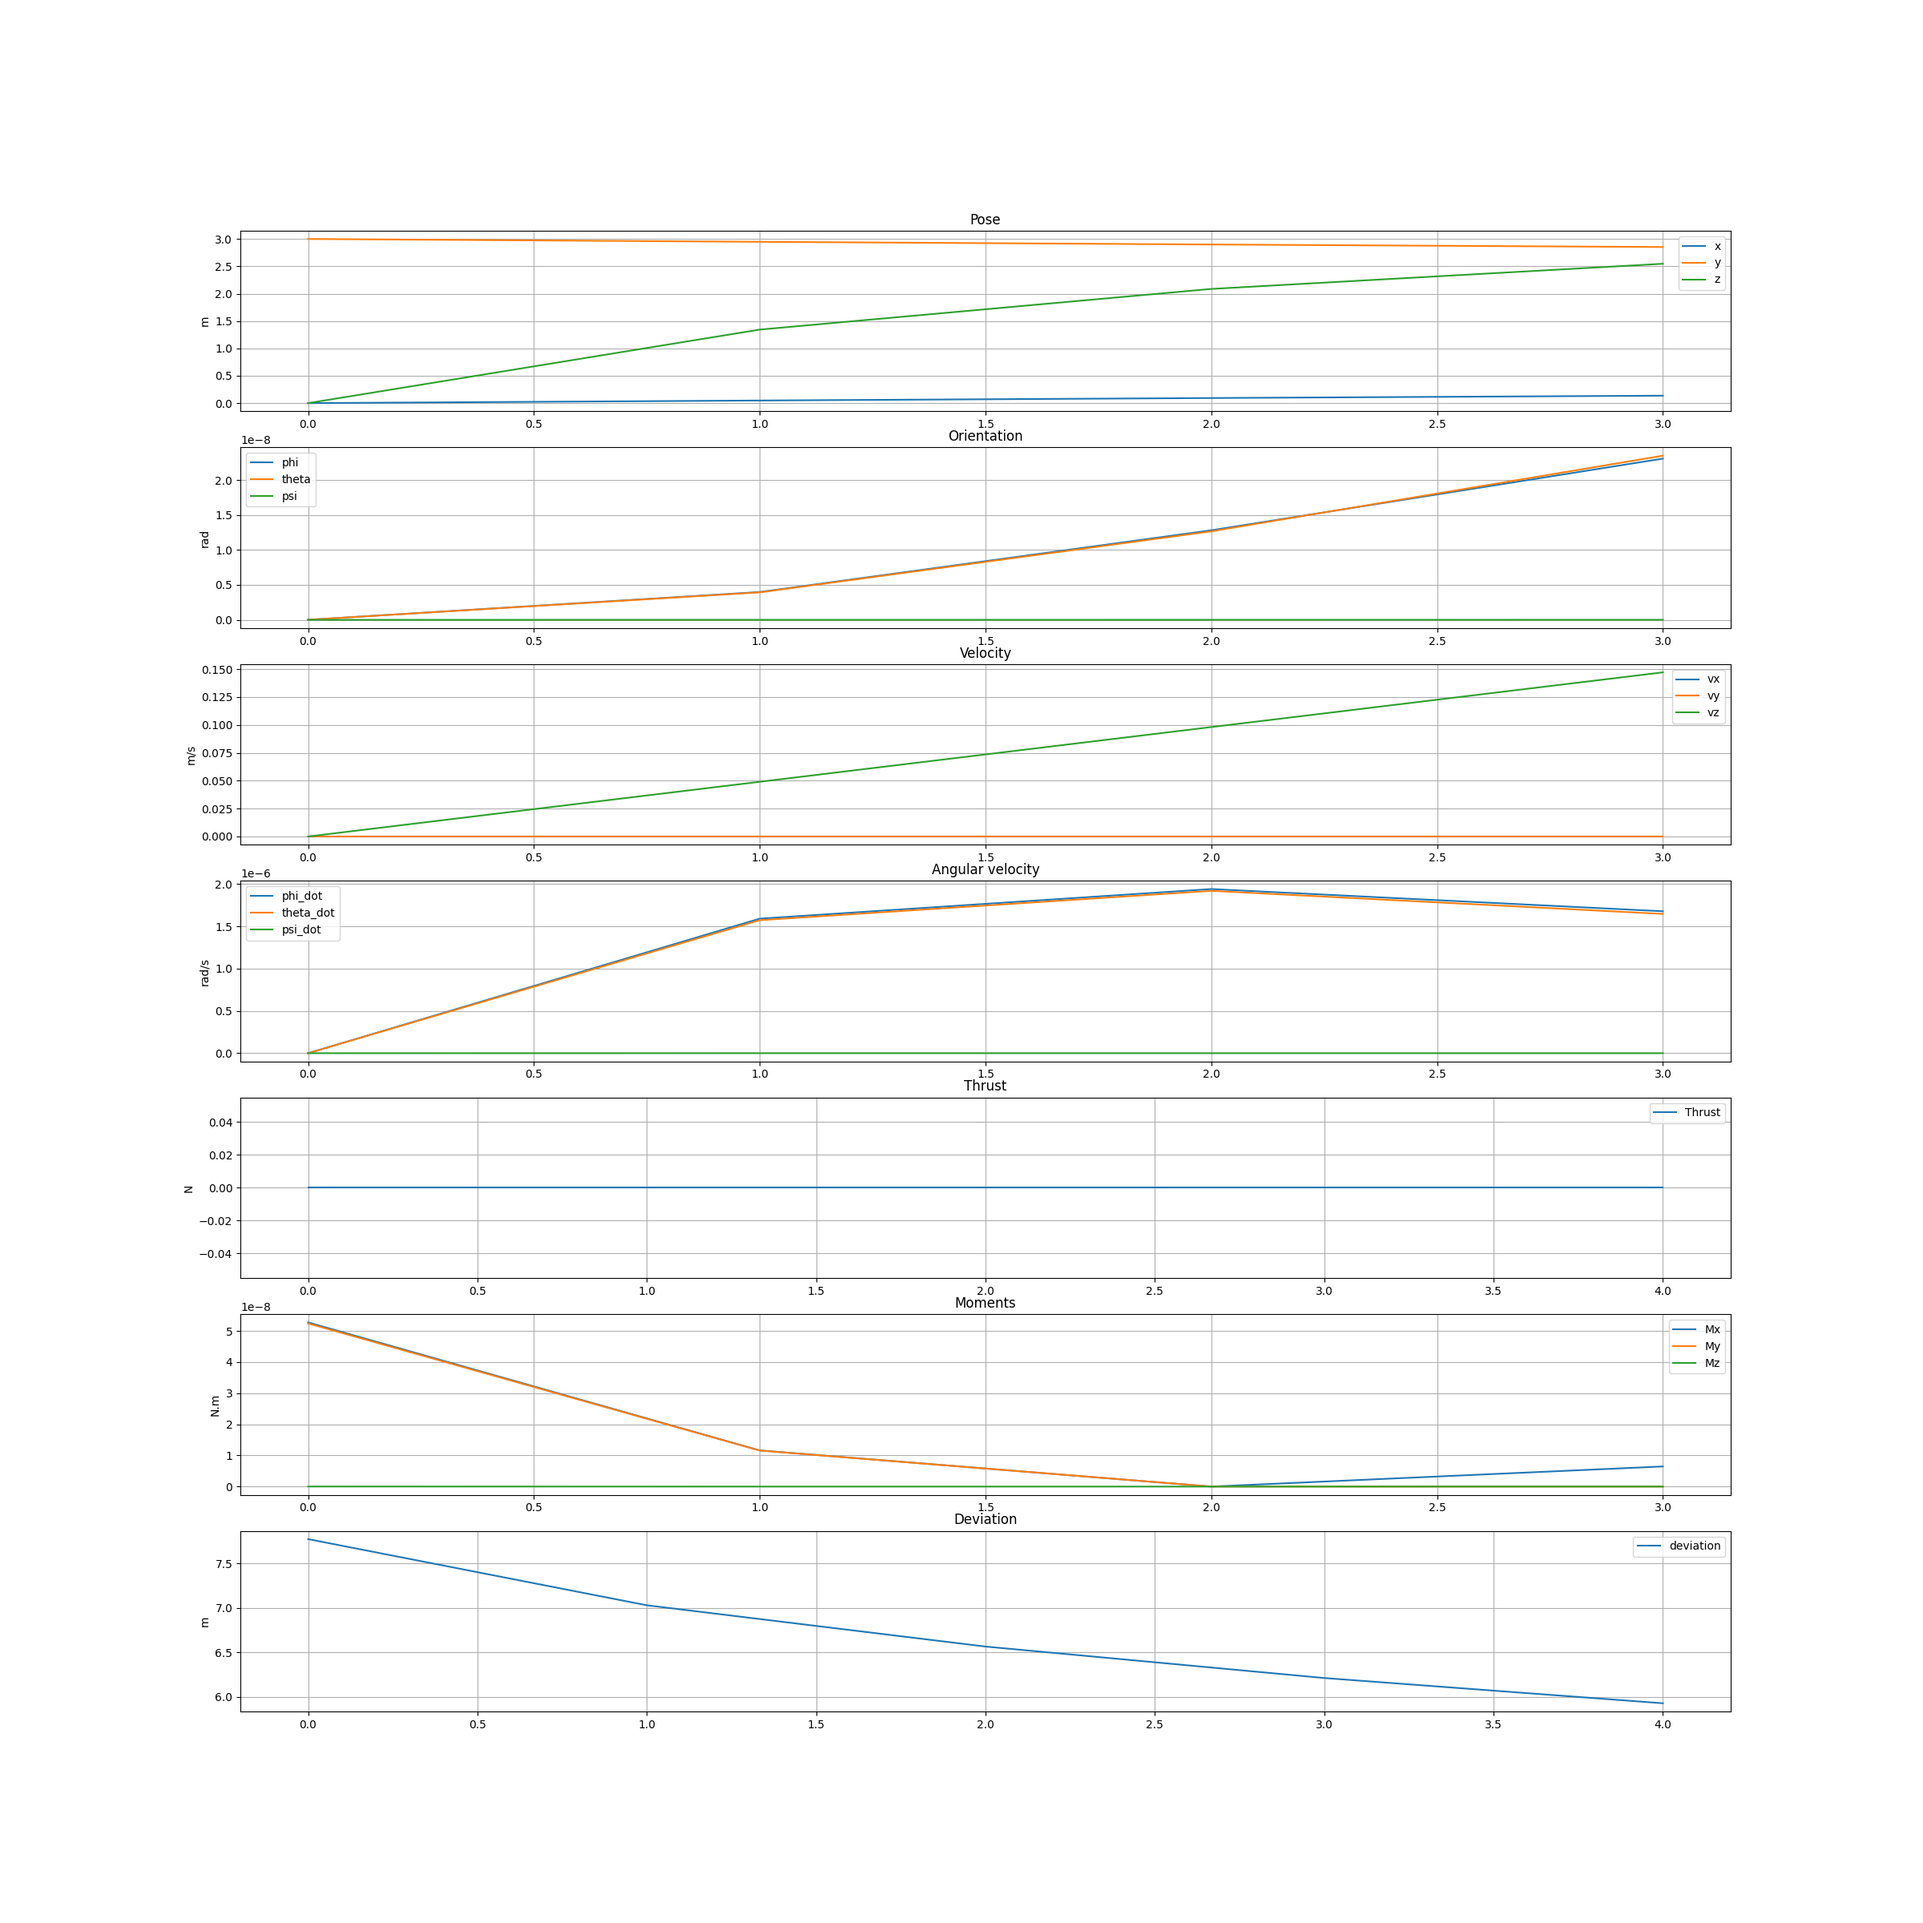
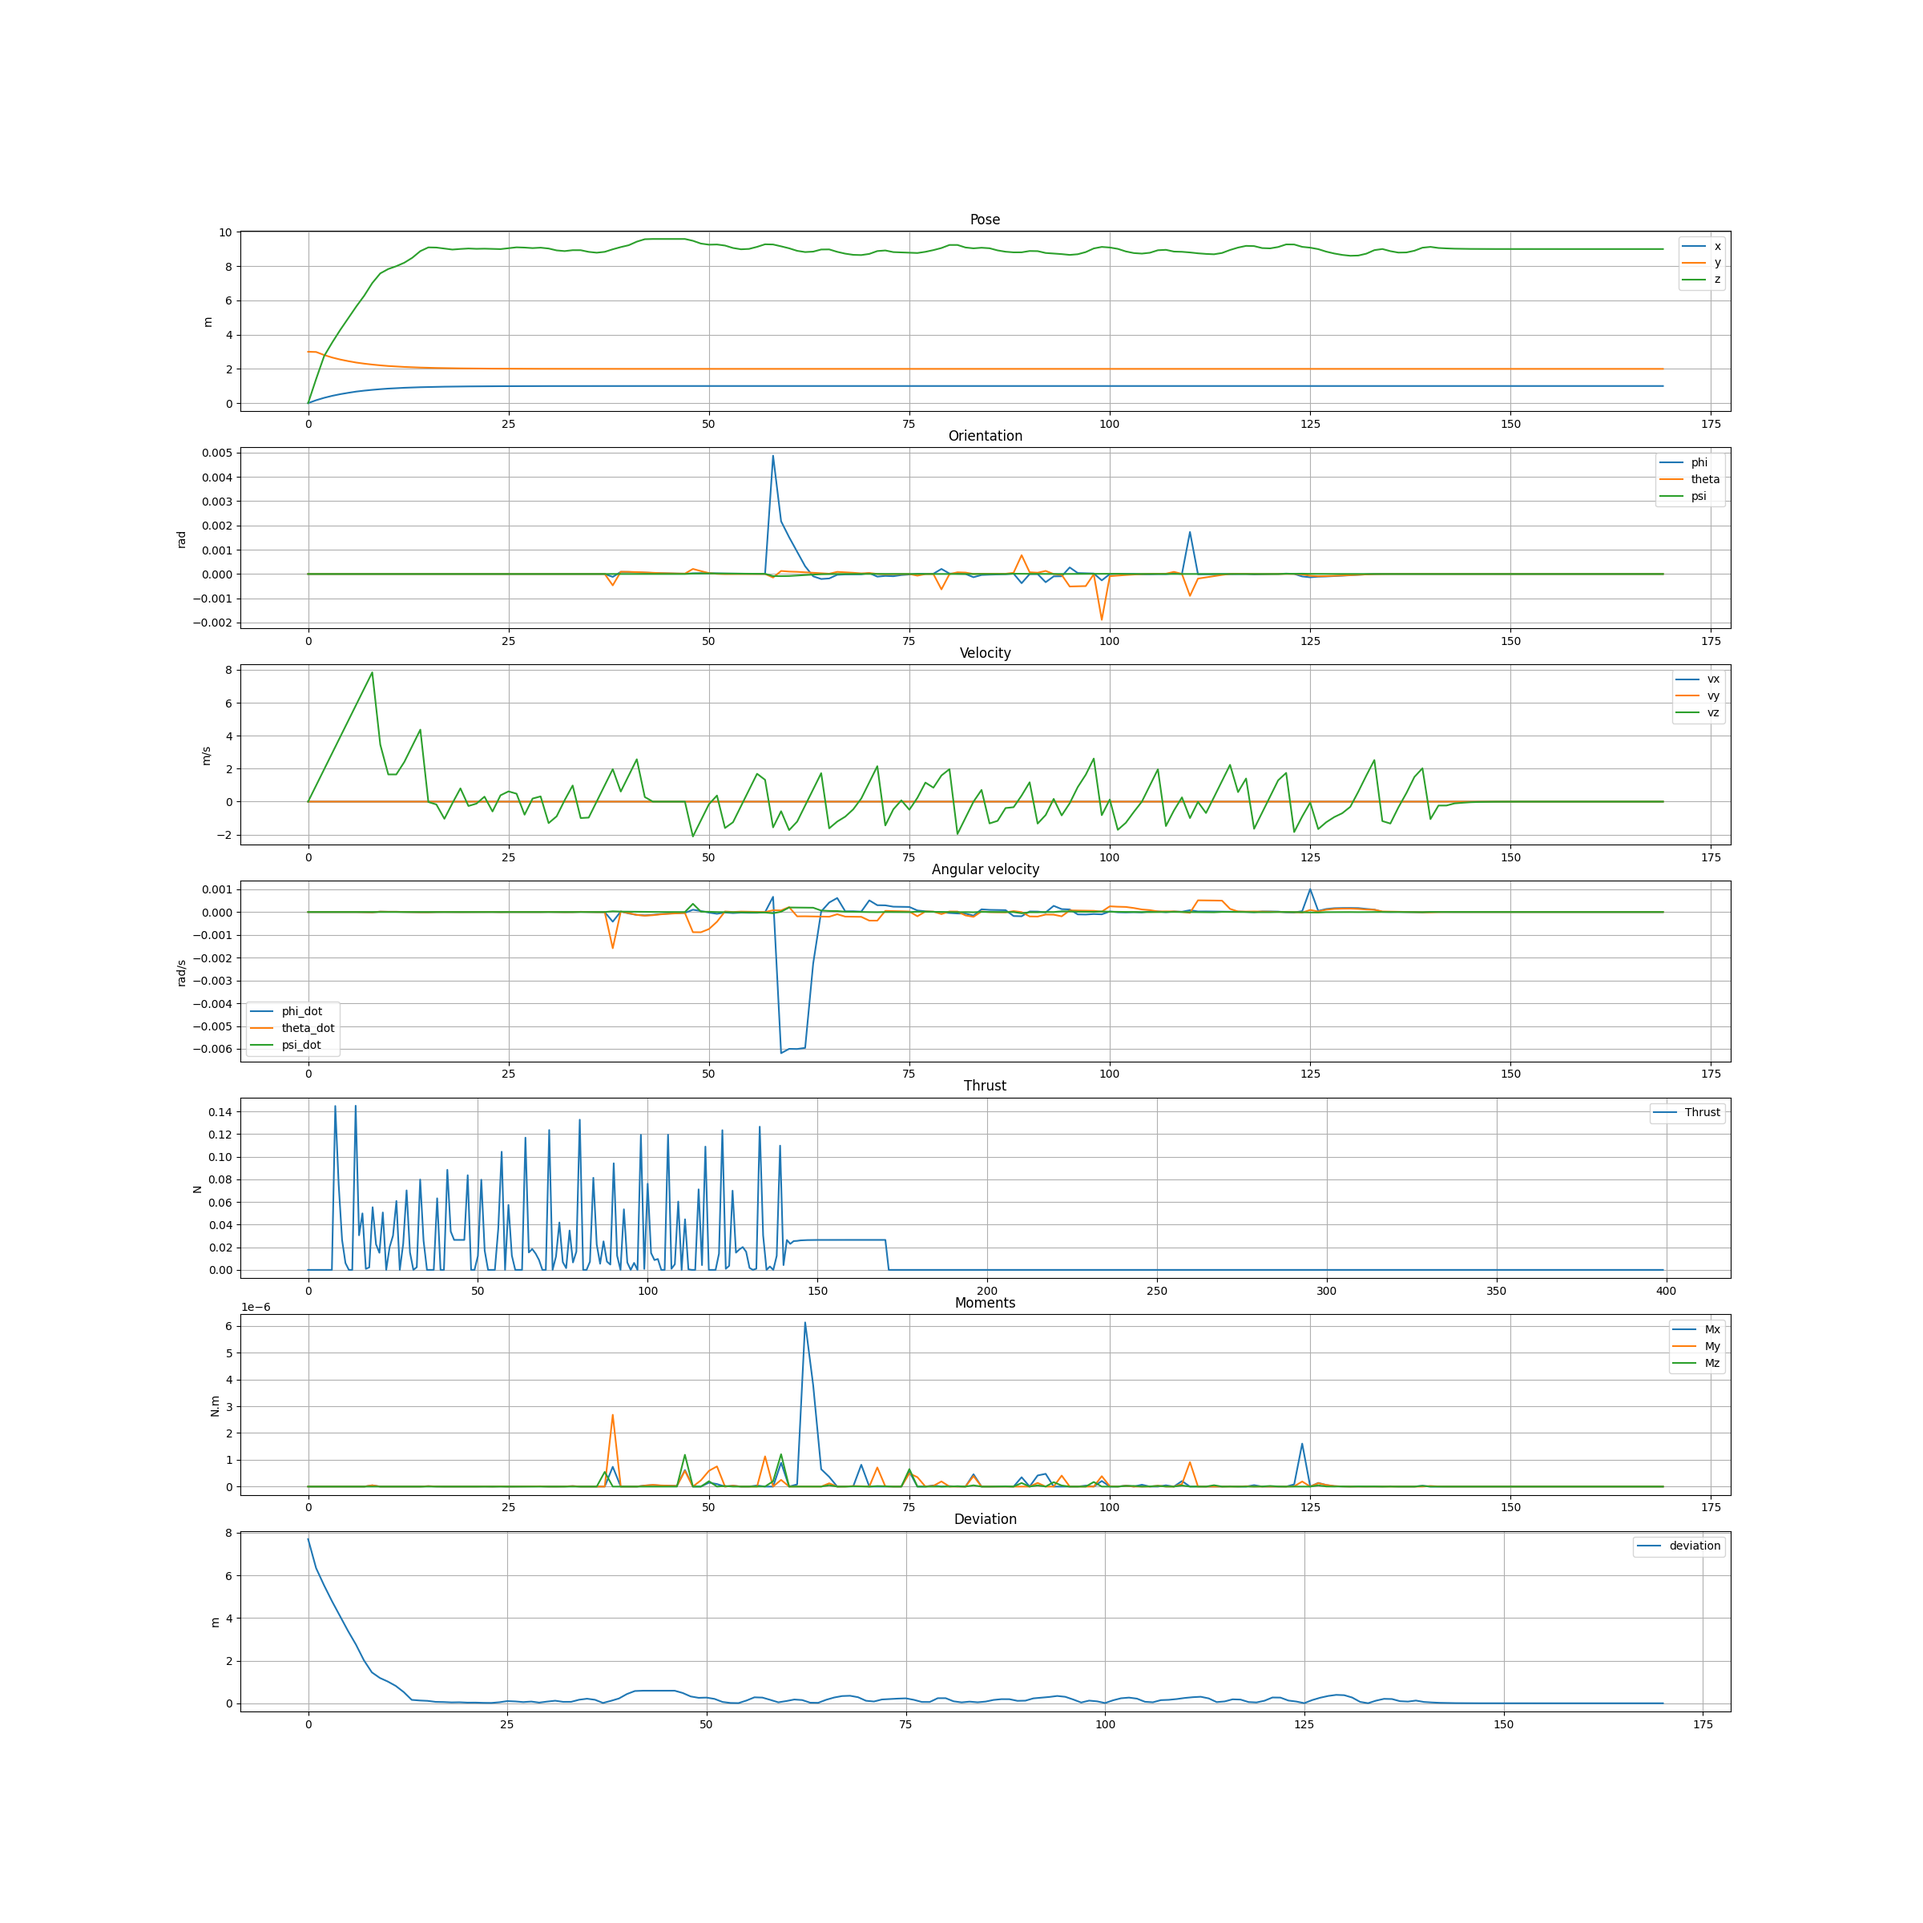
Added avg time per step and changed params

diff --git a/MPC.py b/MPC.py
@@ -72,15 +72,17 @@ def MPC_multiple_shooting( Q, R, function_type, x_init, x_desired, N, T, Tf, nlp
 
         if total_deviation < 0.01:
             stable_state_counter += 1
-            if stable_state_counter == 10:
+            if stable_state_counter == 300:
                 print('MPC converged in ', i ,' steps')
                 break
         end_time = time.time()
         timer += end_time - start
+        print('Time taken for step ', i, ' is ', end_time - start, 's')
 
     # print the function type and time
     print('Function type: ', function_type)
     print('Time: ', timer, 's')
+    print('average time per step for multiple shooting: ', timer/N_sim, 's')
 
     return X_mpc, U_mpc, deviation, i
 
@@ -137,17 +139,20 @@ def MPC_collocation(degree, Q, R, function_type, x_init, x_desired, N, T, Tf, nl
 
         if total_deviation < 0.1:
             stable_state_counter += 1
-            if stable_state_counter == 10:
+            if stable_state_counter == 30:
                 print('MPC converged in ', i, ' steps')
                 break
 
         end_time = time.time()
         timer += end_time - start
+        print('Time taken for step ', i, ' is ', end_time - start, 's')
+
 
     # print method type, function type and time
     print('Method type: Direct Collocation')
     print('Function type: ', function_type)
     print('Time: ', timer, 's')
+    print('average time per step for collocation: ', timer/N_sim, 's')
     return X_mpc, U_mpc, deviation, i
 
 

diff --git a/main.py b/main.py
@@ -6,15 +6,15 @@ from plot import *
 def main():
     # define the parameters 
     # Multiple Shooting
-    N_dms = 20
-    T_dms = 0.001
-    Tf_dms = 100
-    nlpopts_dms = {'ipopt': {'print_level': 0, 'max_iter':200}, 'print_time' : 0}
+    N_dms = 5
+    T_dms = 0.5
+    Tf_dms = 1000
+    nlpopts_dms = {'ipopt': {'print_level': 0, 'max_iter':100}, 'print_time' : 0}
 
     # Direct Collocation
-    N_dc = 20
-    T_dc = 0.001
-    Tf_dc = 100
+    N_dc = 5
+    T_dc = 0.5
+    Tf_dc = 1000
     nlpopts_dc = {'ipopt': {'print_level': 0, 'max_iter':200}, 'print_time' : 0}
     degree = 2
 
